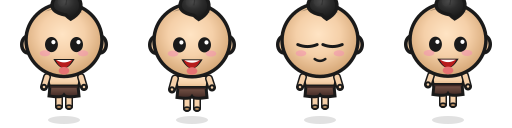
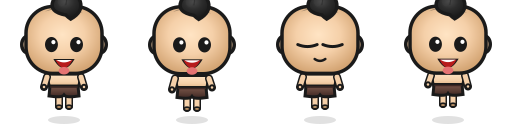
Squarish head shape & remove pink blush spots
- Head: rounded rectangle instead of ellipse (wider than tall, rx>ry)
  matching the slightly square proportions of the reference
- Remove pink blush/cheek spots entirely

https://claude.ai/code/session_015pMPoBHWnGv3b918Z49D2y

diff --git a/src/templates/chibi_parts.js b/src/templates/chibi_parts.js
@@ -79,9 +79,11 @@ function chibiHead(opts = {}) {
   body += `    <ellipse cx="${cx + r - earW * 0.3}" cy="${earY}" rx="${earW}" ry="${earH}" fill="url(#${gId})" stroke="${OL}" stroke-width="${OLW}" />\n`;
   body += `    <ellipse cx="${cx + r - earW * 0.3}" cy="${earY}" rx="${earW * 0.45}" ry="${earH * 0.55}" fill="${skin.shadow}" opacity="0.25" />\n`;
 
-  // ── Đầu tròn ──
+  // ── Đầu hơi vuông bo tròn (giống mẫu — không phải hình tròn hoàn toàn) ──
   body += `    <!-- Head -->\n`;
-  body += `    <ellipse cx="${cx}" cy="${cy}" rx="${r}" ry="${r * 0.96}" fill="url(#${gId})" stroke="${OL}" stroke-width="${OLW}" />\n`;
+  const ry = r * 0.88;  // chiều dọc ngắn hơn chiều ngang → hơi vuông
+  const rc = r * 0.7;   // bo góc
+  body += `    <rect x="${cx - r}" y="${cy - ry}" width="${r * 2}" height="${ry * 2}" rx="${rc}" ry="${rc}" fill="url(#${gId})" stroke="${OL}" stroke-width="${OLW}" />\n`;
 
   // ── Tóc quả đào chú tiểu ──
   body += `    <!-- Hair: quả đào -->\n`;
@@ -161,15 +163,7 @@ function chibiHead(opts = {}) {
     drawEye(eyeR, eyeY, expr === 'thinking');
   }
 
-  // ── Má hồng — oval hồng rõ (giống mẫu) ──
-  if (showBlush) {
-    body += `    <!-- Blush -->\n`;
-    const blushY = cy + r * 0.35;
-    const blushRX = r * 0.14;
-    const blushRY = r * 0.08;
-    body += `    <ellipse cx="${cx - r * 0.5}" cy="${blushY}" rx="${blushRX}" ry="${blushRY}" fill="#F48FB1" opacity="0.55" />\n`;
-    body += `    <ellipse cx="${cx + r * 0.5}" cy="${blushY}" rx="${blushRX}" ry="${blushRY}" fill="#F48FB1" opacity="0.55" />\n`;
-  }
+  // (không có chấm hồng má)
 
   // ── Miệng — cười hở, bên trong có răng trắng + lưỡi hồng (giống mẫu 100%) ──
   body += `    <!-- Mouth -->\n`;
